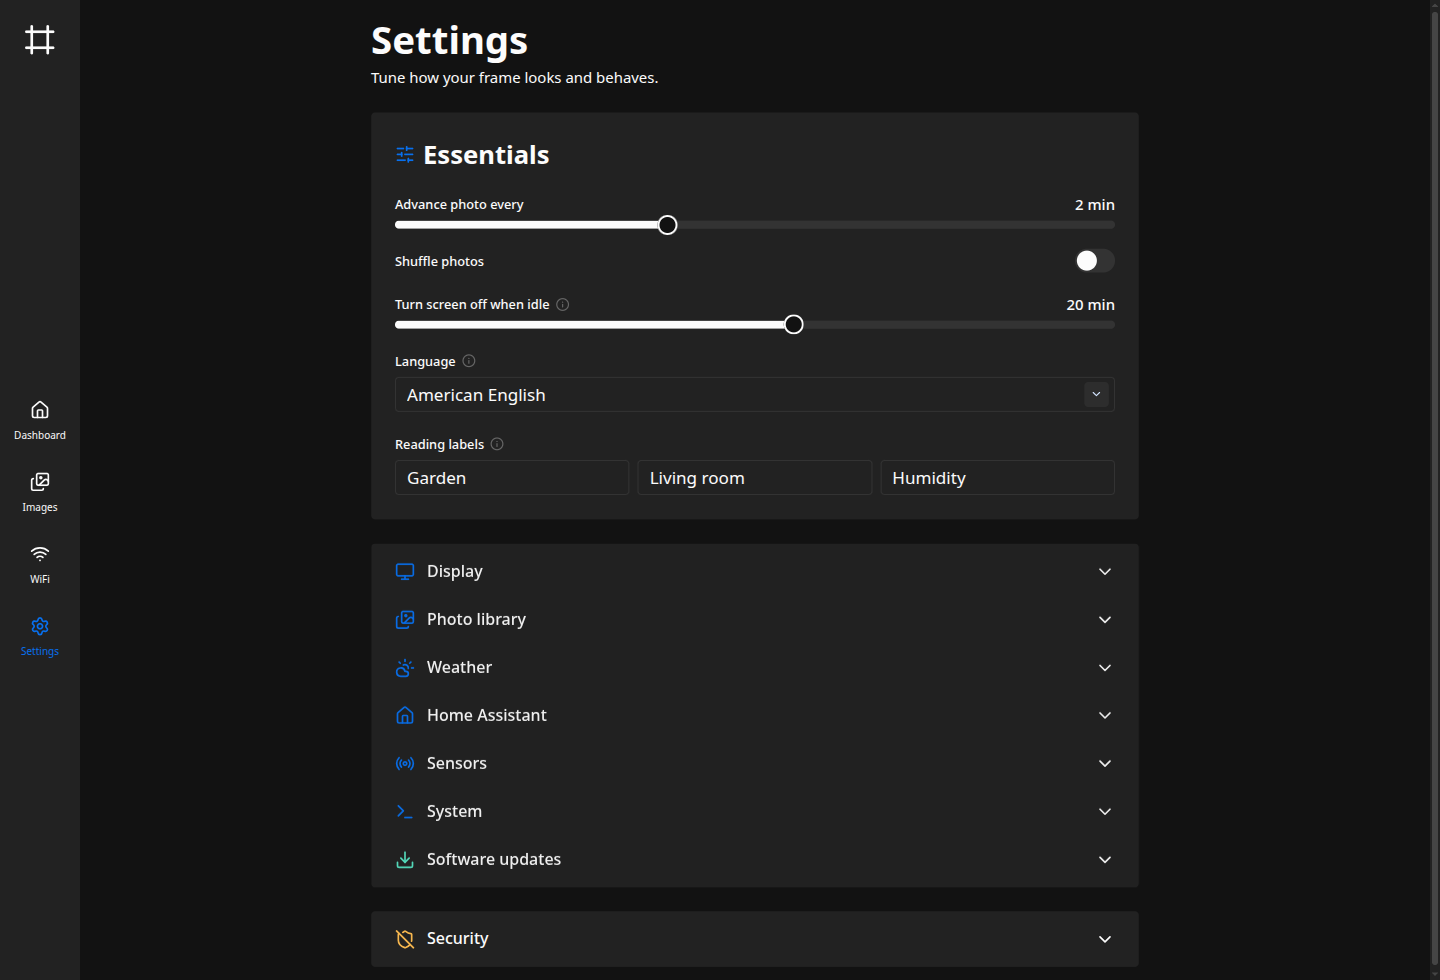
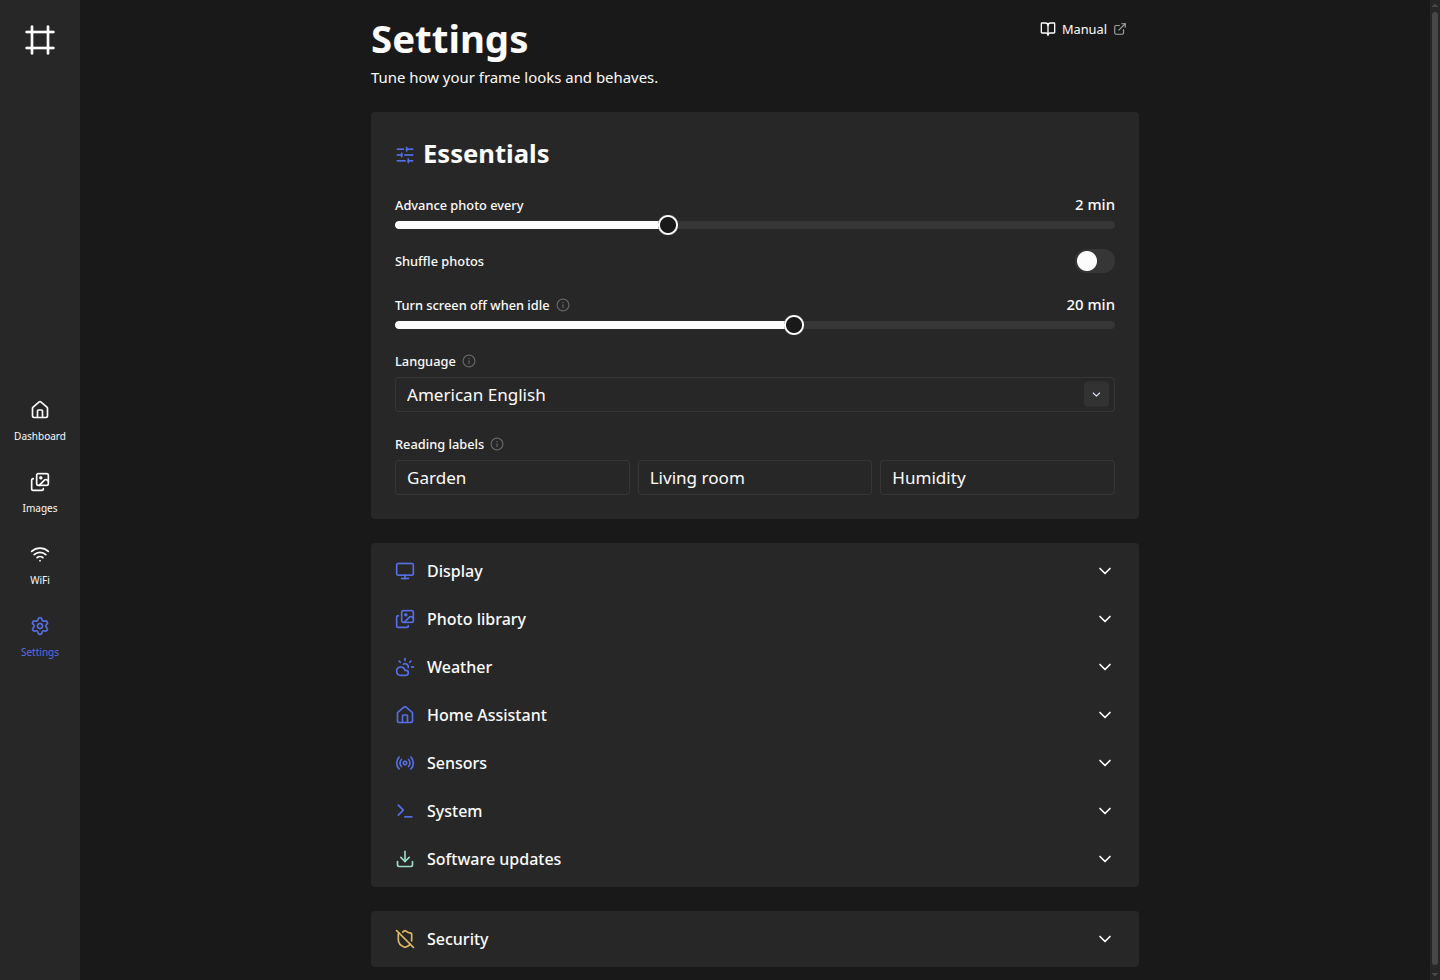
docs: improve docs wording, readme, links on the admin (#5)
<!-- The PR title becomes the squash commit, so write it as a
Conventional Commit. -->

## Summary

- **README:** centered header with the docs moved up and emphasized as a
button.
- **App:** links to the GitHub repo and docs from the About modal, plus
a Manual link on Settings.
- **Docs:**
   - minor wording improvements
   - retook the Settings and About screenshots to match

## Checklist

- [x] Title follows Conventional Commits (`type(scope): summary`).
- [x] `make lint` and `make test` pass locally.
- [x] Tests cover the change, or it needs none (for example, docs only).
- [ ] `make generate` run if the API changed.
- [x] No breaking change in a minor or patch release (see CONTRIBUTING).

diff --git a/web/src/routes/admin/components/AboutModal.svelte b/web/src/routes/admin/components/AboutModal.svelte
@@ -1,7 +1,15 @@
 <script lang="ts">
 	import { Dialog, Portal } from '@skeletonlabs/skeleton-svelte';
-	import { ImageIcon, ChevronDownIcon, RefreshCwIcon } from '@lucide/svelte';
+	import {
+		ImageIcon,
+		ChevronDownIcon,
+		RefreshCwIcon,
+		CodeXmlIcon,
+		BookOpenIcon,
+		ExternalLinkIcon
+	} from '@lucide/svelte';
 	import { loadLicenses, checkForUpdate } from '$lib/updater';
+	import { REPO_URL, DOCS_URL } from '$lib/links';
 
 	let {
 		open,
@@ -88,6 +96,31 @@
 					<RefreshCwIcon class="size-4 {checking ? 'animate-spin' : ''}" />
 					{checking ? 'Checking…' : 'Check for updates'}
 				</button>
+
+				<div class="border-surface-300-700 flex flex-wrap gap-x-5 gap-y-2 border-t pt-3 text-sm">
+					<a
+						href={REPO_URL}
+						target="_blank"
+						rel="external noreferrer"
+						class="text-surface-600-300 hover:text-primary-500 inline-flex items-center gap-1.5"
+						data-testid="about-github"
+					>
+						<CodeXmlIcon class="size-4" />
+						GitHub
+						<ExternalLinkIcon class="size-3.5 opacity-60" />
+					</a>
+					<a
+						href={DOCS_URL}
+						target="_blank"
+						rel="external noreferrer"
+						class="text-surface-600-300 hover:text-primary-500 inline-flex items-center gap-1.5"
+						data-testid="about-docs"
+					>
+						<BookOpenIcon class="size-4" />
+						Documentation
+						<ExternalLinkIcon class="size-3.5 opacity-60" />
+					</a>
+				</div>
 
 				<div class="border-surface-300-700 border-t pt-3">
 					<button

diff --git a/web/src/routes/admin/settings/+page.svelte b/web/src/routes/admin/settings/+page.svelte
@@ -16,8 +16,11 @@
 		TerminalIcon,
 		DownloadIcon,
 		ShieldCheckIcon,
-		ShieldOffIcon
+		ShieldOffIcon,
+		BookOpenIcon,
+		ExternalLinkIcon
 	} from '@lucide/svelte';
+	import { MANUAL_URL } from '$lib/links';
 	import { saveConfig } from '$lib/config';
 	import { createEmptyConfig, createEmptyMeta, configPayload, eq } from './utils';
 	import { validate, sectionFromDetail } from './validate';
@@ -215,9 +218,22 @@
 {/snippet}
 
 <div class="mx-auto max-w-3xl space-y-6 {dirty ? 'pb-20' : ''}">
-	<header class="space-y-1">
-		<h1 class="h2">Settings</h1>
-		<p class="text-surface-500-400 text-sm">Tune how your frame looks and behaves.</p>
+	<header class="flex flex-col gap-3 sm:flex-row sm:items-start sm:justify-between sm:gap-4">
+		<div class="space-y-1">
+			<h1 class="h2">Settings</h1>
+			<p class="text-surface-500-400 text-sm">Tune how your frame looks and behaves.</p>
+		</div>
+		<a
+			href={MANUAL_URL}
+			target="_blank"
+			rel="external noreferrer"
+			class="btn btn-sm preset-tonal-surface hover:preset-tonal-primary w-fit shrink-0 gap-1.5"
+			data-testid="settings-docs"
+		>
+			<BookOpenIcon class="size-4" />
+			Manual
+			<ExternalLinkIcon class="size-3.5 opacity-60" />
+		</a>
 	</header>
 
 	{#if data.config === null}

diff --git a/web/e2e/pages/dashboard.page.ts b/web/e2e/pages/dashboard.page.ts
@@ -30,6 +30,8 @@ export class DashboardPage {
 	readonly aboutLicensesToggle: Locator;
 	readonly aboutLicenses: Locator;
 	readonly aboutClose: Locator;
+	readonly aboutGithub: Locator;
+	readonly aboutDocs: Locator;
 
 	constructor(private readonly page: Page) {
 		this.heading = page.getByTestId('dashboard-heading');
@@ -61,6 +63,8 @@ export class DashboardPage {
 		this.aboutLicensesToggle = page.getByTestId('about-licenses-toggle');
 		this.aboutLicenses = page.getByTestId('about-licenses');
 		this.aboutClose = page.getByTestId('about-close');
+		this.aboutGithub = page.getByTestId('about-github');
+		this.aboutDocs = page.getByTestId('about-docs');
 	}
 
 	async goto(): Promise<void> {

diff --git a/web/e2e/settings.spec.ts b/web/e2e/settings.spec.ts
@@ -18,6 +18,10 @@ test.describe('settings', () => {
 		await expect(settings.labelOutside).toHaveValue('E2E Changed');
 	});
 
+	test('links to the manual', async ({ settings }) => {
+		await expect(settings.docs).toHaveAttribute('href', /pages\.dev\/manual/);
+	});
+
 	test('blocks save on invalid input', async ({ settings }) => {
 		await settings.openSection('weather');
 		await settings.weatherLat.fill('999');

diff --git a/web/src/lib/links.ts b/web/src/lib/links.ts
@@ -1,0 +1,4 @@
+// Canonical project URLs, defined once so the UI links stay in sync.
+export const REPO_URL = 'https://github.com/MateEke/picture-frame';
+export const DOCS_URL = 'https://picture-frame-2kf.pages.dev';
+export const MANUAL_URL = `${DOCS_URL}/manual/dashboard/`;

diff --git a/web/e2e/pages/settings.page.ts b/web/e2e/pages/settings.page.ts
@@ -32,6 +32,7 @@ export class SettingsPage {
 	readonly autoUpdateSwitch: Locator;
 	readonly updateHour: Locator;
 	readonly githubRepo: Locator;
+	readonly docs: Locator;
 
 	constructor(private readonly page: Page) {
 		this.saveBar = page.getByTestId('settings-save-bar');
@@ -65,6 +66,7 @@ export class SettingsPage {
 		this.autoUpdateSwitch = page.getByTestId('auto-update-switch');
 		this.updateHour = page.getByTestId('update-hour');
 		this.githubRepo = page.getByTestId('github-repo');
+		this.docs = page.getByTestId('settings-docs');
 	}
 
 	sensorRow(id: string): Locator {

diff --git a/web/e2e/updates.spec.ts b/web/e2e/updates.spec.ts
@@ -13,6 +13,8 @@ test.describe('updates', () => {
 			await dashboard.openAbout();
 			await expect(dashboard.aboutVersion).toBeVisible();
 			await expect(dashboard.aboutCheck).toBeVisible();
+			await expect(dashboard.aboutGithub).toHaveAttribute('href', /github\.com/);
+			await expect(dashboard.aboutDocs).toHaveAttribute('href', /pages\.dev/);
 		});
 
 		test('installs from the dashboard, then the panel clears', async ({ dashboard }) => {

diff --git a/README.md b/README.md
@@ -1,15 +1,32 @@
-# picture-frame
+<div align="center">
+
+# Picture Frame
+
+**A self-hosted digital picture frame for the Raspberry Pi.**
+
+Your photos beside the time, the weather, and the real temperature in your rooms. Motion-aware,
+private, and plugged into Home Assistant.
+
+[![Documentation](https://img.shields.io/badge/Documentation-4F46E5?style=for-the-badge)](https://picture-frame-2kf.pages.dev)
+&nbsp;
+[![Install](https://img.shields.io/badge/Install-334155?style=for-the-badge)](#install)
+&nbsp;
+[![Contributing](https://img.shields.io/badge/Contributing-334155?style=for-the-badge)](CONTRIBUTING.md)
+
+<br>
 
 [![CI](https://github.com/MateEke/picture-frame/actions/workflows/ci.yml/badge.svg)](https://github.com/MateEke/picture-frame/actions/workflows/ci.yml)
 [![Release](https://img.shields.io/github/v/release/MateEke/picture-frame)](https://github.com/MateEke/picture-frame/releases/latest)
 [![Go Report Card](https://goreportcard.com/badge/github.com/MateEke/picture-frame)](https://goreportcard.com/report/github.com/MateEke/picture-frame)
 [![License](https://img.shields.io/github/license/MateEke/picture-frame)](LICENSE)
 
-A self-hosted digital picture frame for low-power devices like the Raspberry Pi, written in Go and
-Svelte. It runs as a single static binary that serves both the on-screen kiosk display and a
-browser admin interface, so you configure everything without re-flashing.
+</div>
 
 ![The frame showing a photo with the time, date, and indoor and outdoor readings](docs/src/assets/screenshots/kiosk.png)
+
+It runs as a single static binary that serves both the on-screen kiosk display and a browser admin
+interface, so you set everything up without re-flashing. It is light enough for a Raspberry Pi Zero
+W driving an HD screen, and written in Go and Svelte.
 
 ## Highlights
 
@@ -30,6 +47,12 @@ browser admin interface, so you configure everything without re-flashing.
   offline, even air-gapped.
 - **Highly customizable:** every option is set from the admin interface and saved to a TOML file.
 
+## Documentation
+
+The full documentation lives at **<https://picture-frame-2kf.pages.dev>**. It covers installation,
+a guided tour of the admin interface, every configuration option, and the engineering notes behind
+the project.
+
 ## Install
 
 On a fresh Raspberry Pi OS Trixie Lite, reachable over SSH:
@@ -40,11 +63,6 @@ curl -fsSL https://github.com/MateEke/picture-frame/releases/latest/download/ins
 
 See the [Install guide](https://picture-frame-2kf.pages.dev/getting-started/install/) for the
 requirements, options, and first setup.
-
-## Documentation
-
-The full documentation, covering installation, the admin interface, every configuration option, and
-the engineering notes behind the project, is at **<https://picture-frame-2kf.pages.dev>**.
 
 ## Development
 

diff --git a/docs/src/content/docs/development/story.md b/docs/src/content/docs/development/story.md
@@ -4,7 +4,8 @@ description: Where this came from, and a few engineering problems worth writing 
 ---
 
 I built the first version in 2017. The Pi Zero W had just come out, and getting the whole thing to
-run on something that small was the appeal, more a challenge I set myself than a hardware choice.
+run on something that small and low-powered was the appeal. It was a challenge I enjoyed, and the
+low power and small size matter for something left running on a shelf.
 
 Back then it was three programs: a PyQt5 and QML kiosk on the Pi, a .NET Core server for uploads
 and sensors, and an Angular web app for the interface. Room sensors over Bluetooth, motion
@@ -17,16 +18,18 @@ That is the frame as it sits today. The panel is a salvaged laptop screen, and t
 next to it is 3D-printed, holding the sensors: an SHT21 for temperature and humidity, a cheap PIR
 module for motion, and an nRF51822 to handle Bluetooth. Because it is wireless, that sensor pack
 can sit anywhere in the room. In our last place it lived at the far end. Here it sits right next to
-the frame, as in the photo. It is dated hardware, and I will keep it running until it stops. After that I will probably read my other sensors through Home Assistant
-over MQTT instead. If I build a few more of these for family, I will likely swap the Bluetooth
-board for an I2C sensor adapter.
+the frame, as in the photo. It is old hardware, and I will keep using it until it gives out. When it
+does, I will most likely read my room sensors through Home Assistant over MQTT instead, which the
+frame already supports. And if I build a few of these for family, I would swap the Bluetooth board
+for a wired I2C sensor for a simpler build.
 
 ## Why rewrite it
 
-What pushed me to rebuild was the maintenance, not the features. The Pi client needed Qt
-cross-compiled with the eglfs backend to run without a desktop, a fragile day-long build that was
-very hard to reproduce after an SD card died. I kept image backups just to stay safe. I wanted
-something I could rebuild from scratch without ceremony.
+What pushed me to rebuild was mostly the maintenance, though I also wanted a few new features and a
+more modern stack. The Pi client needed Qt cross-compiled with the eglfs backend to run without a
+desktop, a fragile day-long build that was very hard to reproduce after an SD card died. I kept
+image backups just to stay safe. I wanted something I could tear down and rebuild from scratch
+quickly and predictably.
 
 So this version is one program: a single Go binary with the admin interface, a SvelteKit app on
 Svelte 5, built into it. No separate server, no Angular app, no database. The filesystem holds the
@@ -35,18 +38,19 @@ parts that took real work, and why they ended up looking the way they do.
 
 ## The crossfade
 
-Qt with eglfs handled the photo crossfade easily. Moving it to a browser on this hardware did not.
+Qt with eglfs had handled the photo crossfade easily. In a browser on this hardware, it turned into
+one of the hardest parts to get right.
 
 A plain Svelte transition was the obvious starting point, and it was far too heavy for the Zero W.
 Next I tried two image layers, swapping the hidden one and animating the opacity of both as they
 loaded. It stuttered, but it was closer. Then I kept the two layers but animated opacity only on
-the incoming image. In a proof of concept that ran well, so I built the rest on top of it.
+the incoming image. In a proof of concept it ran well, so I built the rest on top of it.
 
 It came apart once the overlay and the SSE listeners were in place. The fade-in stayed smooth, but
 the fade-out had become a sudden blip. The fix was to never animate a fade-out at all. The fader
 only ever fades the incoming image in over the current one. When that finishes, it copies the
 now-visible image down to the base layer and snaps the top layer back to invisible without
-animating. Every transition is a single fade-in, which is the one thing the Pi does smoothly.
+animating. Every transition is now a single fade-in, which the Pi Zero can render smoothly.
 
 ## Turning the screen off
 
@@ -86,9 +90,8 @@ installer rather than changing a setting.
 
 There was no single fix for memory. It was a constant concern through the whole build, showing up
 as small decisions everywhere: how photos are sized and served, how events move through the app,
-what the kiosk loads versus what only the admin interface needs. None of it is dramatic on its
-own. Together it is what keeps the whole stack, operating system included, inside 512 MB with room
-left for the browser.
+what the kiosk loads versus what only the admin interface needs. Added up, those small decisions are
+what keep the whole stack, operating system included, inside 512 MB with room left for the browser.
 
 ## Recovering on its own
 
@@ -108,7 +111,7 @@ only ever acts during an update in progress. An ordinary crash-loop never trigge
 that failed is recorded, skipped by future automatic updates, and surfaced once in the admin
 interface so you know what happened.
 
-Wi-Fi recovery is the simpler cousin of the same idea: lose the known network and the frame raises
+Wi-Fi recovery works on the same principle: lose the known network and the frame raises
 its own hotspot with a captive portal, so you can point it at a new one from your phone. See
 [Wi-Fi](/manual/wifi/) and [Software updates](/manual/updates/) for how both look in use.
 

diff --git a/docs/src/content/docs/development/status.md b/docs/src/content/docs/development/status.md
@@ -40,10 +40,10 @@ A few things I might get to, with no promises on timing:
   that on the kiosk is probably too much for the Pi, so I'd first need to generate the backdrop
   earlier, at upload or sync time.
 - **Wired GPIO sensors.** A way to read motion, temperature, and humidity straight off the Pi's
-  GPIO, over something like I2C, so a unit can be fully self-contained with no broker or smart-home
-  setup. Bluetooth lets me put the motion sensor anywhere in the room, which helps a frame set back
-  on a shelf, but it is more to build, needs a battery in the end, and is less reliable. Wired
-  sensors trade that placement freedom for a simpler, sturdier build. People who visit keep asking
-  where to get a frame like this, and while it doesn't make sense as a product (a good screen isn't
-  cheap, framing costs more, and salvaged panels aren't a reliable supply), I'd like to build a few
-  simple units for less technical friends and family.
+  GPIO over I2C, so a unit is fully self-contained with no broker or smart-home setup. Bluetooth
+  lets the sensor pack sit anywhere in the room, which suits a frame set back on a shelf, but it is
+  more to build, needs a battery, and is less reliable. Wired sensors trade that placement freedom
+  for a simpler, sturdier build. Visitors keep asking where to get a frame like this. It would not
+  make sense as a product (a good screen isn't cheap, framing costs more, and salvaged panels aren't
+  a reliable supply), but I would happily build a few simple units for less technical friends and
+  family.